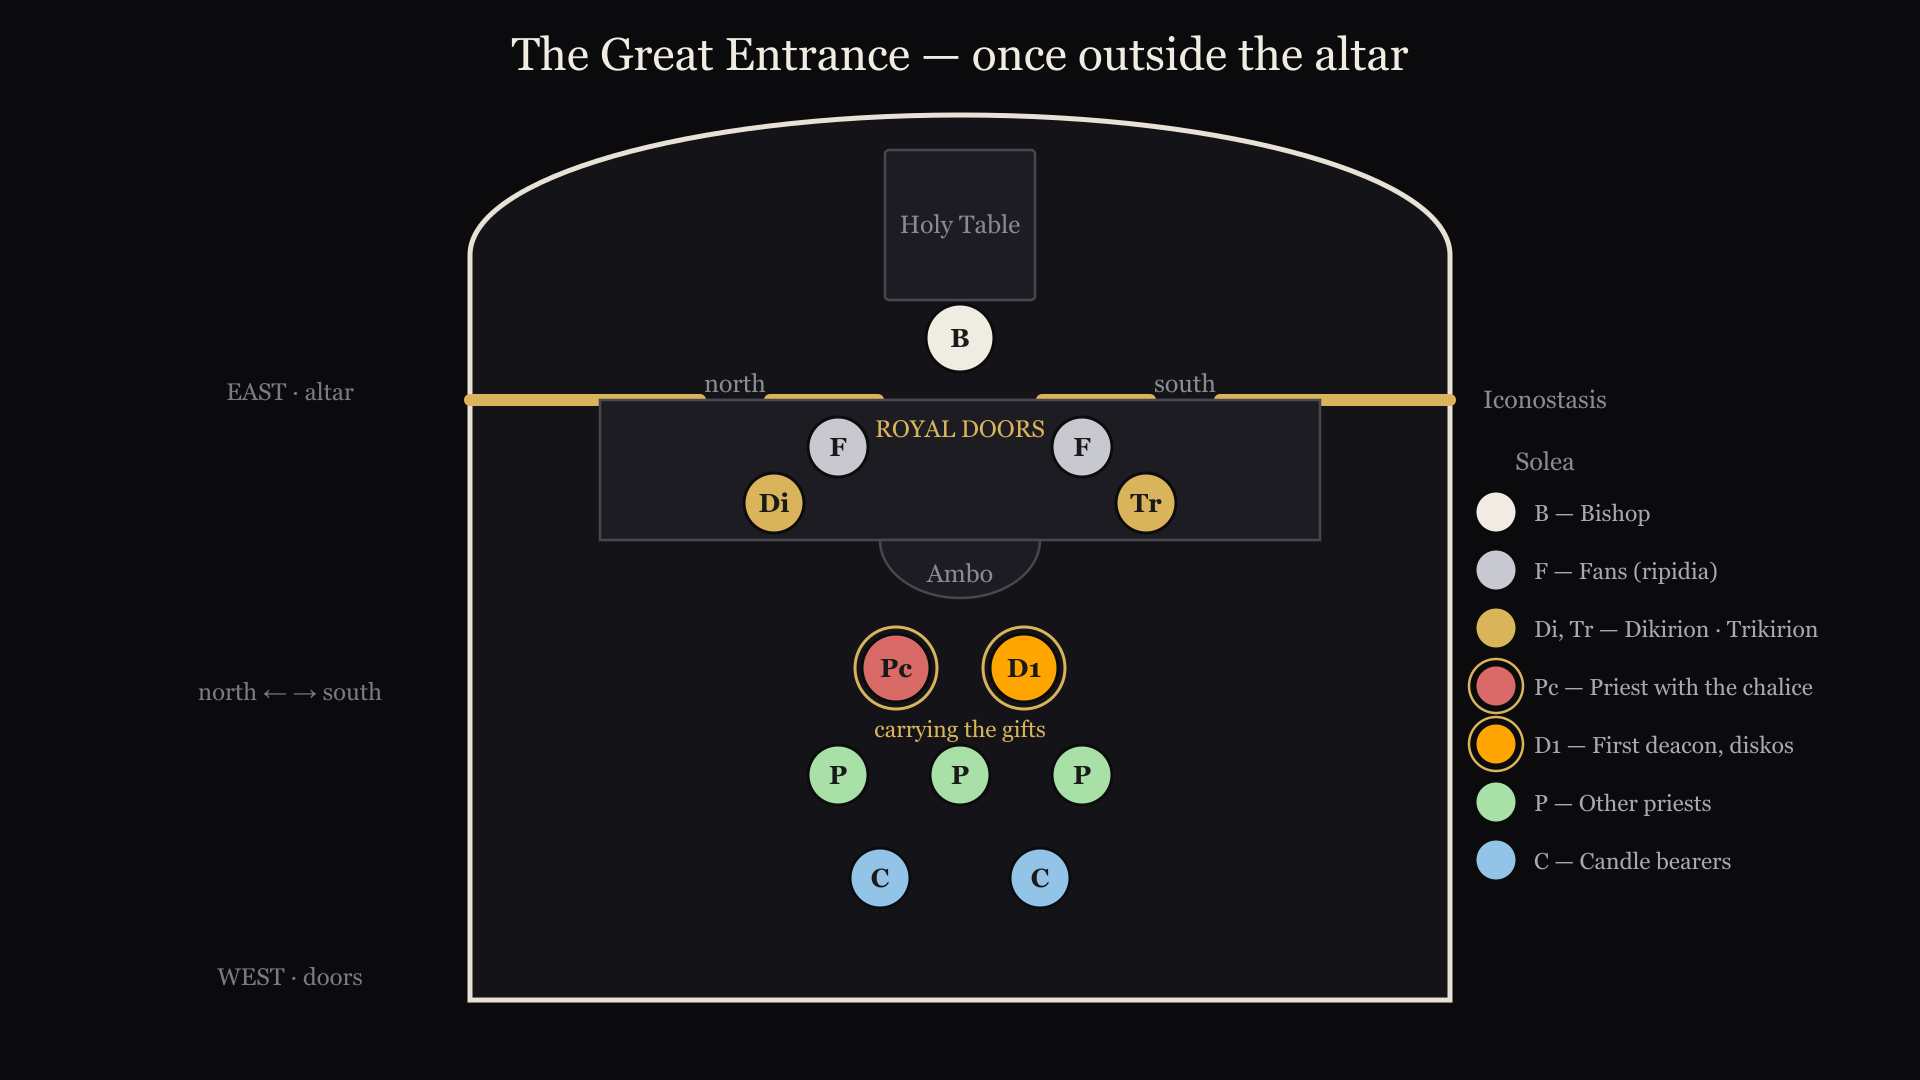
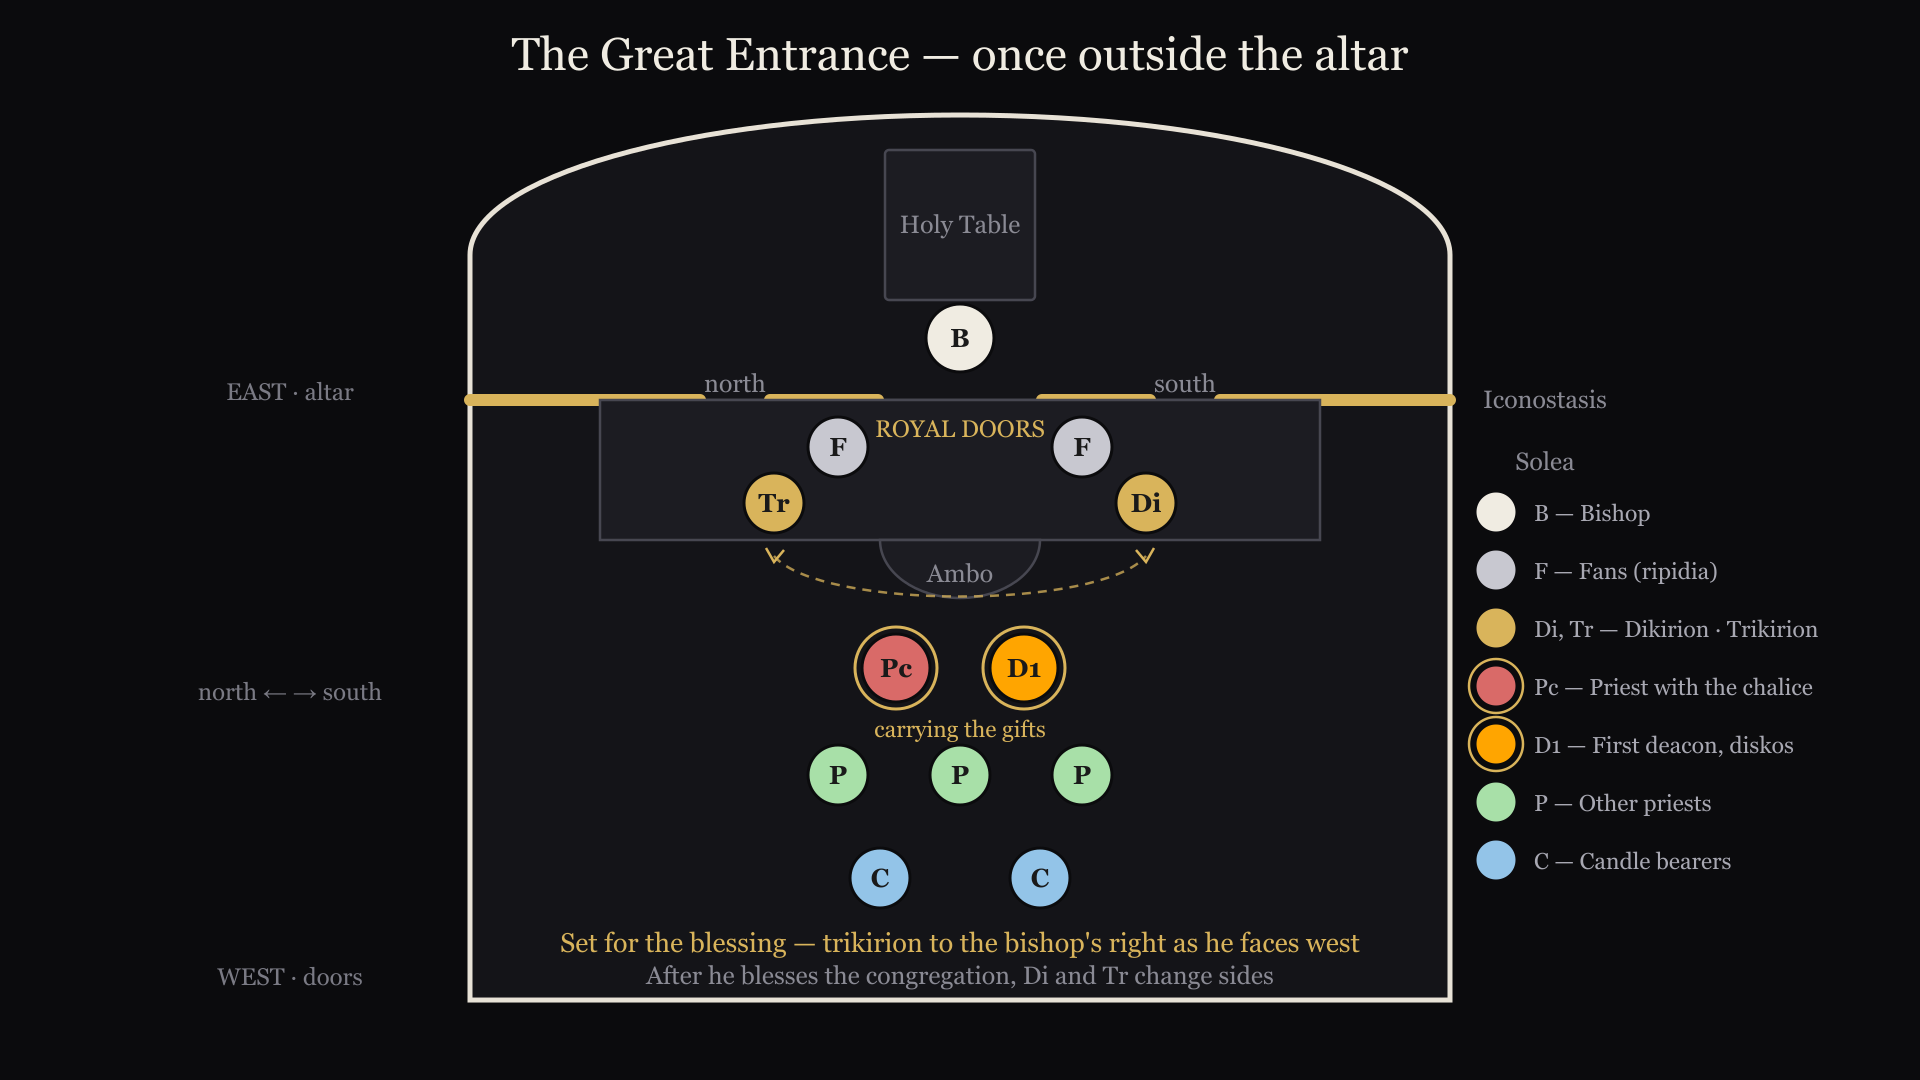
Great Entrance plan: local practice, trikirion north
The parish sets the bearers for the blessing rather than for the bishop's
eastward stance — trikirion north, dikirion south, which puts the trikirion in
his right hand the moment he turns west to bless the congregation. Consistent
with the general rule, just resolved at the later of the two moments.

The diagram now shows that arrangement, with a dashed link between the two
markers and a note that they change sides once he has blessed.

Recorded in CLAUDE.md as confirmed local practice — no source would give it,
and a later session comparing against a general rubric might otherwise think
it wrong.

Changed region(s): [[0.2812, 0.8556, 0.7188, 0.9167], [0.5938, 0.4583, 0.625, 0.4889], [0.375, 0.4583, 0.4062, 0.4889]]

diff --git a/CLAUDE.md b/CLAUDE.md
@@ -328,6 +328,11 @@ north. Facing **west** toward the people, they reverse. So the bearers must
 cross when he turns — the only way to keep the trikirion in his right hand
 through a 180° turn. Not a local custom.
 
+**Local practice, confirmed by the user:** at the Great Entrance the
+**trikirion stands north and the dikirion south** — already set for the bishop
+to bless the congregation, since facing west his right hand is to the north.
+The Great Entrance diagram shows this arrangement, with the swap noted.
+
 **Open, and not answerable from sources:** exactly *when* in the Great
 Entrance they cross — before setting out, on the solea, or as he turns. The
 user is confident the crossing always happens and cannot see it himself from
